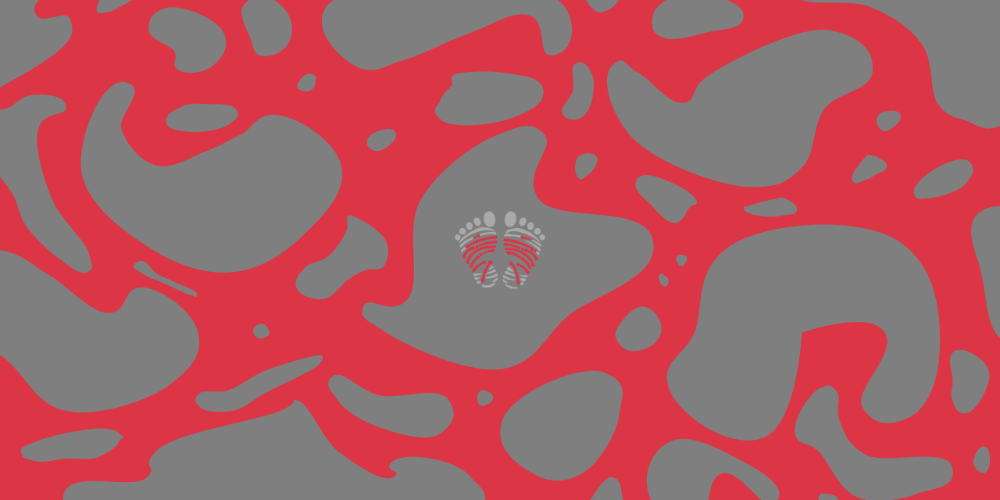
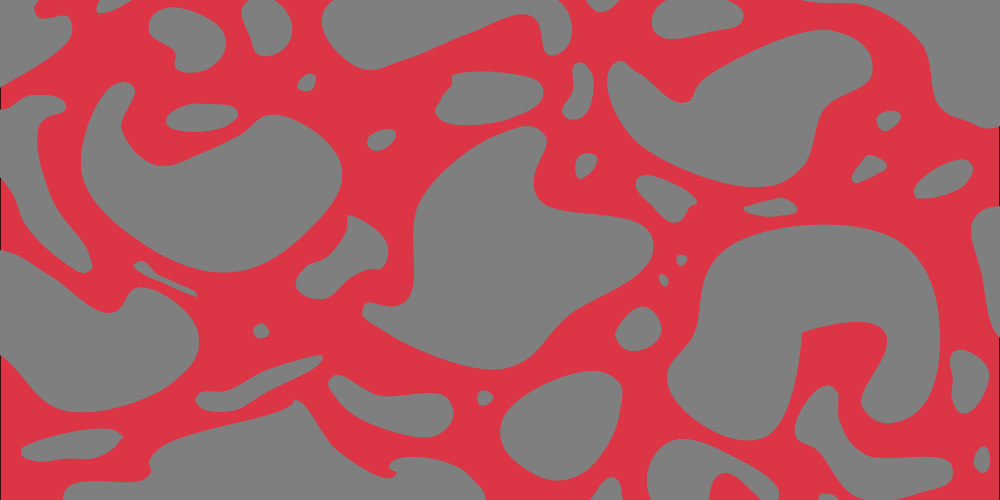
Profile bugs fixes

Changed region(s): [[0.434, 0.42, 0.558, 0.57], [0.992, 0.69, 1.0, 1.0], [0.992, 0.27, 1.0, 0.39]]

diff --git a/tss-dc-bot/index.js b/tss-dc-bot/index.js
@@ -339,6 +339,10 @@ async function updateDiscordStats() {
 client.on('interactionCreate', async interaction => {
     if (interaction.channelId !== ALLOWED_CHANNEL_ID) {
         if (interaction.isChatInputCommand() || interaction.isButton() || interaction.isStringSelectMenu()) {
+            // Check if interaction has already been replied to
+            if (interaction.replied || interaction.deferred) {
+                return;
+            }
             return interaction.reply({
                 content: `❌ Komend i funkcji bota można używać wyłącznie na kanale <#${ALLOWED_CHANNEL_ID}>!`,
                 flags: 1 << 6,
@@ -392,7 +396,20 @@ client.on('interactionCreate', async interaction => {
                 targetProfile = await getProfile(targetUser.id, targetUser.username, targetRoles);
             }
 
-            await interaction.deferReply();
+            // Check if interaction is already deferred or replied to
+            try {
+                if (!interaction.deferred && !interaction.replied) {
+                    await interaction.deferReply();
+                }
+            } catch (error) {
+                // If deferReply fails (e.g., unknown interaction), just continue
+                if (error.code === 10062) {
+                    console.warn('[INTERACTION] Interaction already processed, continuing...');
+                    // Don't throw the error, just continue with the command
+                } else {
+                    throw error; // Re-throw if it's a different error
+                }
+            }
             try {
                 const calculatedLevel = getLevelFromXP(targetProfile.xp ?? 0);
                 const buffer = await createProfileCard({

diff --git a/tss-dc-bot/profileGenerator.js b/tss-dc-bot/profileGenerator.js
@@ -286,13 +286,13 @@ async function createProfileCard(userData) {
         const barWidth = Math.max(8, 450 * progressPercent);
         const dynamicRadius = Math.min(22, barWidth / 2);
 
-        drawRoundedRect(35, 415, barWidth, 45, dynamicRadius, '#22FF00');
+        drawRoundedRect(35, 415, barWidth, 45, 22, '#22FF00');
     }
 
-// ── MONEY Section (wyżej na karcie) ─────────────────────
+// ── MONEY Section (na dole karty) ────────────────────────
     const coinSize = 38;
     const moneyX  = 580;
-    const moneyY  = 240;  // Wyżej na karcie
+    const moneyY  = 370;  // Pod sekcją LEVEL
 
 // Nagłówek MONEY
     ctx.textAlign = 'right';
